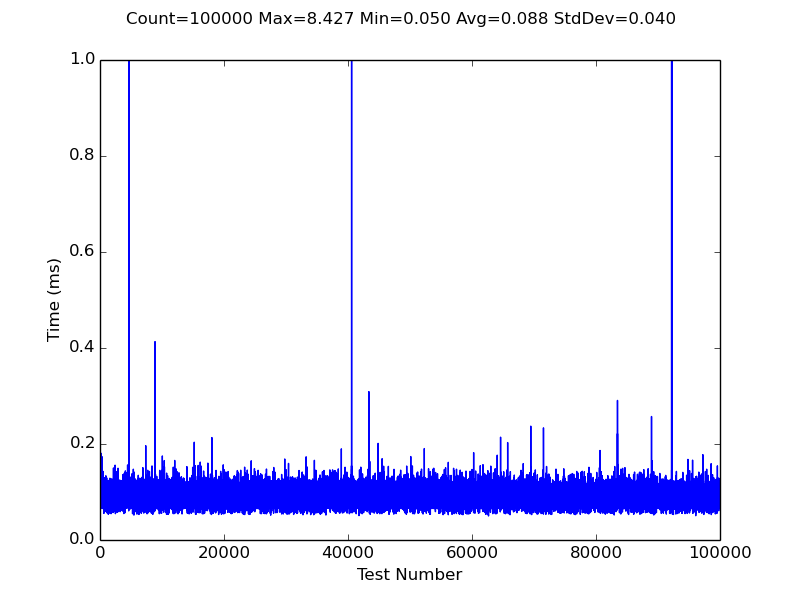
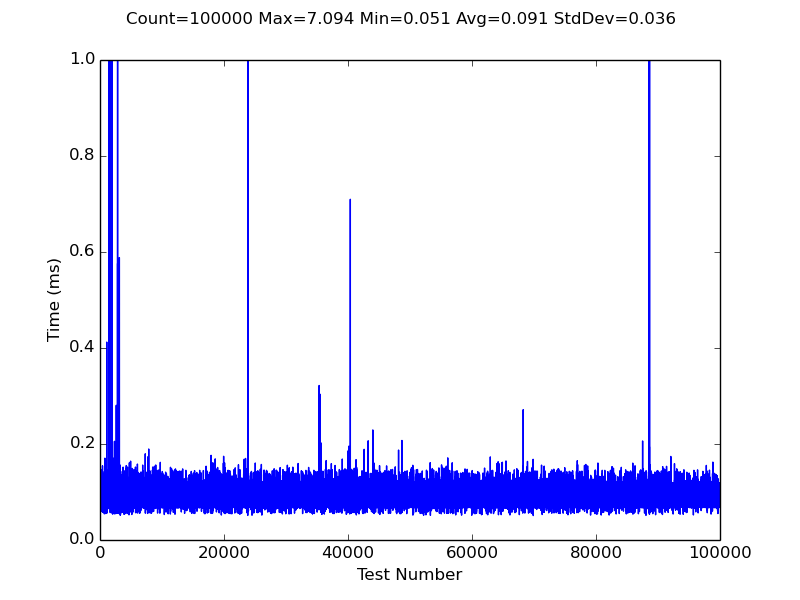
Added C semaphore test

diff --git a/src/c_semt/c_semt.c b/src/c_semt/c_semt.c
@@ -1,0 +1,65 @@
+#include <stdio.h>
+#include <stdlib.h>
+#include <unistd.h>
+#include <pthread.h>
+#include <string.h>
+#include <semaphore.h>
+
+#include "common_c_cpp.h"
+
+static void* sem_thread_func( void* arg )
+{	
+	struct timespec actualAfterWaitTime;
+	struct timespec* returnedAfterWaitTime;
+	
+	sem_wait( ( sem_t* ) arg );
+
+	GetTime( &( actualAfterWaitTime ) );
+	
+	returnedAfterWaitTime = calloc( 1, sizeof( struct timespec ) );
+	memcpy( returnedAfterWaitTime, &( actualAfterWaitTime ), sizeof( struct timespec ) );
+	
+	sem_post( ( sem_t* ) arg );
+	
+	pthread_exit( returnedAfterWaitTime );
+}
+
+int main( int argc, char* const argv[ ] )
+{	
+	int i;
+	pthread_t thread;
+	sem_t semaphore;
+	
+	PARAMS params = getParams( argc, argv );
+	
+	sem_init( &( semaphore ), 0, 1 );
+	
+	printf( "C\n" );
+	printf( "semt\n" );
+	printf( "sem_unlock\n" );
+	
+	for( i = 0; i < params.count; i++ )
+	{
+		sem_wait( &( semaphore ) );
+	
+		memset( &( thread ), 0, sizeof( pthread_t ) );
+		
+		struct timespec postTime;
+		struct timespec* afterWaitTime;
+		
+		pthread_create( &( thread ), NULL, sem_thread_func, &( semaphore ) );
+		
+		usleep( THREAD_MIN_ALIVE_TIME_US );
+		
+		GetTime( &( postTime ) );
+		sem_post( &( semaphore ) );
+	
+		pthread_join( thread, ( void** ) &( afterWaitTime ) );
+		
+		printf( "%f\n", GetMicroDiff( &( postTime ), afterWaitTime ) );
+		
+		free( afterWaitTime );
+	}
+	
+	return 0;
+}

diff --git a/src/outputparser.py b/src/outputparser.py
@@ -136,7 +136,9 @@ def createMarkdown( jsonFileName, lookupJSONFileName, markdownFileName, markdown
 		f.write( '# Results\n' )
 		for testName in sorted( jsonData ):
 			f.write( '\n' )
-			f.write( '## Test: {}\n'.format( lookupData[ 'Tests' ][ testName ] ) )
+			f.write( '## Test: {}\n'.format( lookupData[ 'Tests' ][ testName ][ 'name' ] ) )
+			f.write( '{}\n'.format( lookupData[ 'Tests' ][ testName ][ 'description' ] ) )
+			f.write( '\n' )
 			headerNames = '|Description|'
 			headerBar = '|-----------|'
 			

diff --git a/README.md b/README.md
@@ -13,14 +13,7 @@ Some tests of various Linux threading libraries.
 # Summary
 This project is designed to compare the performance of various threading systems.
 
-## Test Descriptions
-|Name|Description|
-|----|-----------|
-|thread_start|Time between immediately before the thread creation function is called and the first execution of that thread.|
-|thread_shutdown|Time between immediately before a thread terminates and when the creator of the thread receives notification that the thread shut down.|
-
-## Details
-Each line in the following table represents the execution of one of the binaries in this repository.
+Each line in the table represents the execution of one of the binaries in this repository.
 For each one, the following information is listed:
 * The language the program was written in.
 * The library (if any) used to run the tests.
@@ -29,7 +22,16 @@ For each one, the following information is listed:
 
 # Results
 
+## Test: Semaphore Unlock
+Time between when one thread posts a semaphore and a waiting thread is running.
+
+|Description|1st Gen Intel Core i7|
+|-----------|---------------------|
+|C - semt|![sem_unlock__Intel Core i7 CPU 920 2.67GHz__C__semt](img/sem_unlock__Intel_Core_i7_CPU_920_2.67GHz__C__semt.png)|
+
 ## Test: Thread Shutdown
+Time between immediately before a thread terminates and when the creator of the thread receives notification that the thread shut down.
+
 |Description|1st Gen Intel Core i7|Raspberry Pi B2|
 |-----------|---------------------|---------------|
 |C++ - boost::thread|![thread_shutdown__Intel Core i7 CPU 920 2.67GHz__C++__boost::thread](img/thread_shutdown__Intel_Core_i7_CPU_920_2.67GHz__CPP__boostthread.png)|
@@ -39,6 +41,8 @@ For each one, the following information is listed:
 |C - pthread|![thread_shutdown__ARMv6-compatible processor rev 7 v6l__C__pthread](img/thread_shutdown__ARMv6-compatible_processor_rev_7_v6l__C__pthread.png)|![thread_shutdown__Intel Core i7 CPU 920 2.67GHz__C__pthread](img/thread_shutdown__Intel_Core_i7_CPU_920_2.67GHz__C__pthread.png)|
 
 ## Test: Thread Startup
+Time between immediately before the thread creation function is called and the first execution of that thread.
+
 |Description|1st Gen Intel Core i7|Raspberry Pi B2|
 |-----------|---------------------|---------------|
 |C++ - boost::thread|![thread_start__Intel Core i7 CPU 920 2.67GHz__C++__boost::thread](img/thread_start__Intel_Core_i7_CPU_920_2.67GHz__CPP__boostthread.png)|

diff --git a/README_HEADER.md b/README_HEADER.md
@@ -13,14 +13,7 @@ Some tests of various Linux threading libraries.
 # Summary
 This project is designed to compare the performance of various threading systems.
 
-## Test Descriptions
-|Name|Description|
-|----|-----------|
-|thread_start|Time between immediately before the thread creation function is called and the first execution of that thread.|
-|thread_shutdown|Time between immediately before a thread terminates and when the creator of the thread receives notification that the thread shut down.|
-
-## Details
-Each line in the following table represents the execution of one of the binaries in this repository.
+Each line in the table represents the execution of one of the binaries in this repository.
 For each one, the following information is listed:
 * The language the program was written in.
 * The library (if any) used to run the tests.
